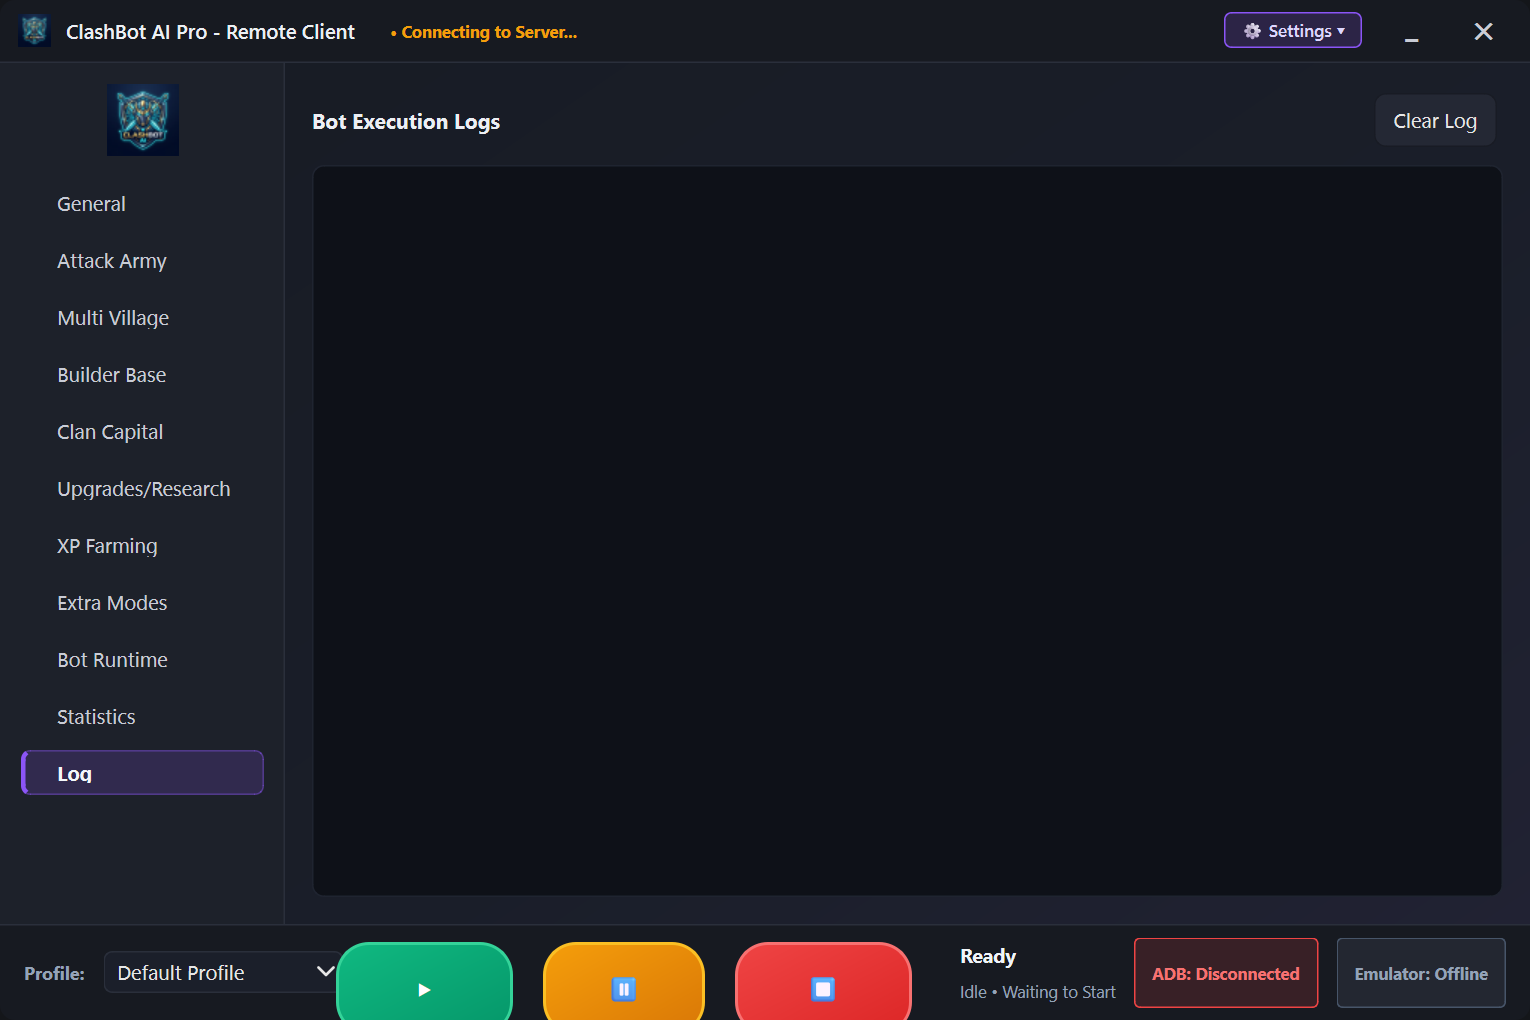
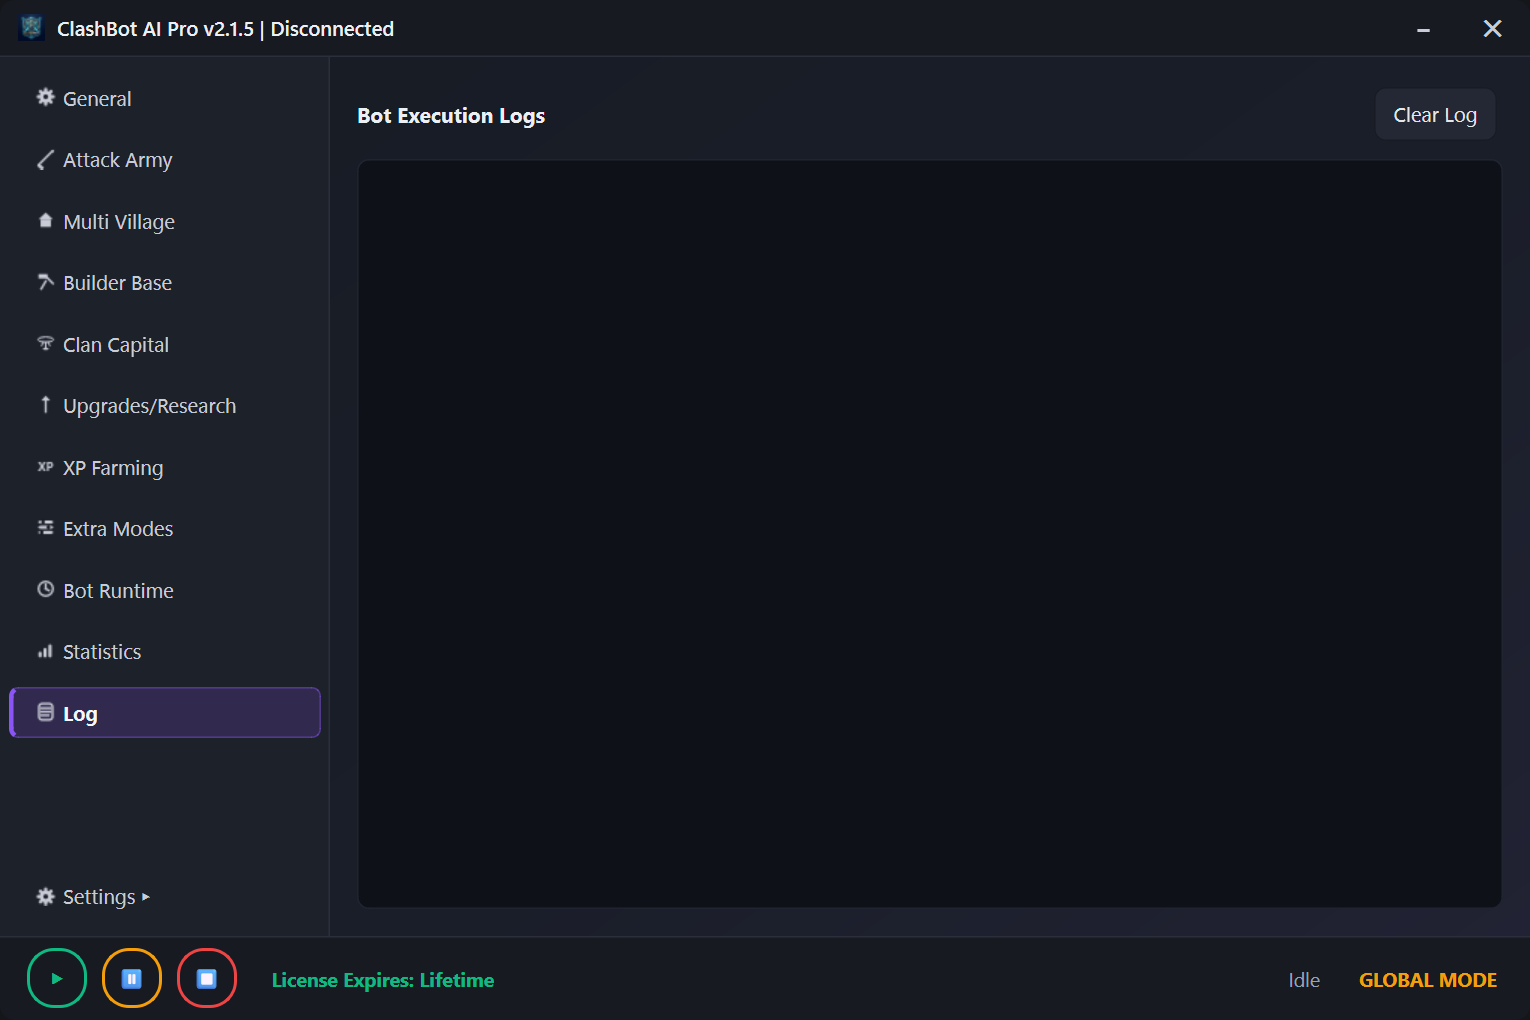
fix: use libgl1 instead of libgl1-mesa-glx

diff --git a/scratch/test_e2e_standalone_sync.py b/scratch/test_e2e_standalone_sync.py
@@ -82,8 +82,8 @@ for _ in range(15):
 print(f"[+] Client UI received state snapshot:")
 print(f"    - farming_enabled checked: {client_win.farming_enabled.isChecked()}")
 print(f"    - attack_gold value: {client_win.attack_gold.value()}")
-badge_text = client_win.title_bar.conn_badge.text().encode('ascii', errors='replace').decode('ascii')
-print(f"    - Title Badge Text: {badge_text}")
+badge_text = client_win.title_bar.title_lbl.text().encode('ascii', errors='replace').decode('ascii')
+print(f"    - Title Text: {badge_text}")
 
 # Test 1: Client toggles upgrade_walls -> Verify Host receives it
 print("\n[3] Testing Client Action -> Host Execution:")

diff --git a/scratch/test_standalone_isolation.py b/scratch/test_standalone_isolation.py
@@ -35,7 +35,7 @@ print(f"    - Pages: {list(window.pages.keys())}")
 # Verify key attributes exist on window
 critical_attrs = [
     "farming_enabled", "upgrade_walls", "wall_stop_level", "attack_gold",
-    "attack_elixir", "attack_dark", "dead_bases_only", "request_donations",
+    "attack_elixir", "attack_dark", "request_donations",
     "wait_cc_troops", "enable_donations", "end_on_stars", "target_stars",
     "collect_collectors", "strategy", "army_slot", "hero_tap_delay_enabled",
     "multi_enabled", "builder_enabled", "clan_capital_enable",
